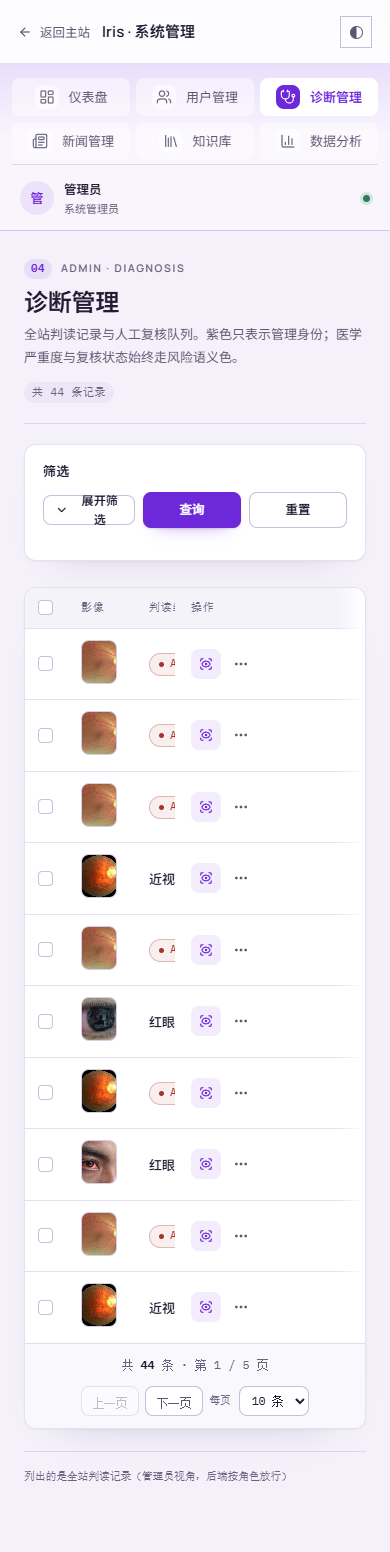
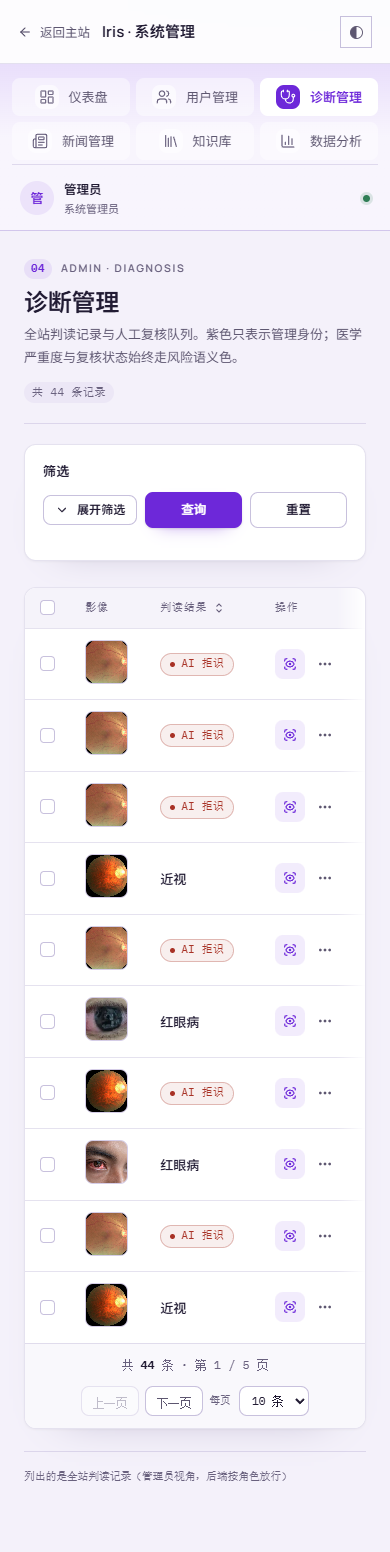
fix(web): 390px sticky 操作列行内宽度压过媒体查询——收窄 !important
视觉评审第二轮裁剪证据：诊断管理在 390px 下操作列仍渲染 190px
（列定义行内 width 压过 .admin-dt__cell--action 的媒体查询覆盖），
sticky 右列从 x=175 盖住判读结果列，「AI 拒识」chip 被切到只剩
半个字母、表头「判读结果」被截成「判读」。

- 操作列 390 档收窄规则加 !important（行内样式优先级的唯一解）
- .admin-btn 补 white-space: nowrap：「展开筛选」曾被挤成两行竖排
- 文件元信息（类型 · 大小）补 overflow hidden + ellipsis：长文件名
  行内截断，完整值已在 title

复验：操作列 106px @x=259，chip 完整；筛选按钮单行；知识库最长
文件名 06-hypertension.md 行内 ellipsis。r3 全量重采（浅/深 ×
四档视口 × 7 页 + 暗色窄屏档）。typecheck/lint/358 tests/build 全绿。

diff --git a/web/src/styles/admin-redesign.css b/web/src/styles/admin-redesign.css
@@ -866,9 +866,10 @@
   font-size: 10.5px;
   letter-spacing: 0.06em;
   color: var(--fg-3);
-  /* 类型 + 大小是一体读数，窄屏宁断行也不要在「·」处折行；
-     完整值交给 title。 */
+  /* 类型 + 大小是一体读数：窄屏截断时给省略号，完整值在 title 里。 */
   white-space: nowrap;
+  overflow: hidden;
+  text-overflow: ellipsis;
 }
 
 /* ── 诊断缩略图 ───────────────────────────────────────────── */
@@ -1551,10 +1552,13 @@ html.dark .admin-newsedit .w-md-editor {
     min-width: 932px;
   }
 
+  /* 列定义给 <th> 写了行内 width（160–190px），行内样式压过本表；
+     390 档必须 !important 才能把固定的 sticky 操作列收窄——
+     否则它会盖住判读结果列，把「AI 拒识」chip 切掉半截。 */
   .admin-dt__cell--action,
   .admin-dt__head--action {
-    width: 96px;
-    min-width: 96px;
+    width: 96px !important;
+    min-width: 96px !important;
   }
 
   .admin-dt__scroll {

diff --git a/web/src/styles/admin.css b/web/src/styles/admin.css
@@ -359,6 +359,8 @@
   font-family: var(--font-sans);
   font-size: 13px;
   font-weight: 500;
+  /* 390 档「展开筛选」曾被挤成两行竖排；按钮文案永远单行。 */
+  white-space: nowrap;
   cursor: pointer;
   transition:
     background var(--fast),

diff --git a/docs/design/admin-redesign-after/r2/visual-review-report.md b/docs/design/admin-redesign-after/r2/visual-review-report.md
@@ -1,0 +1,192 @@
+# Independent Visual Review — Admin Console Redesign (`feat/admin-visual-redesign`)
+
+Reviewed read-only from `D:\Work\code\eye-diagnosis\.worktrees\admin-redesign`, branch
+`feat/admin-visual-redesign` (base `ui`). Review date 2026-11-14.
+
+## Verdict
+
+**REQUEST CHANGES.**
+
+No P0. One P1 remains visible in the delivered evidence: at 390px the diagnosis
+"判读结果" and knowledge "文档" columns are still sliced by the sticky action
+column (light **and** dark), so "AI 拒识" renders as a red dot plus a single "A".
+Two P2 consistency/honesty findings follow. This is a review gate, not the
+user's final visual sign-off — automated screenshots passing does not equal human
+visual approval.
+
+## Scope, evidence and method
+
+- **Evidence base.** The review round opened on `r2/`; while it was running the
+  implementation committed `94a3e071 fix(web): 视觉评审整改——窄屏折叠/暗色对比/弹性列零宽三组修复`
+  and re-captured `r3/`. Findings are therefore verified against **`r3/`**
+  (the post-remediation evidence), with `r2/` used only to locate the original
+  defect. `r3/` contains 7 pages × {light 1440, dark 1440, w390, w768, w1280,
+  w1920} plus `dark-w390/`, `dark-w768/` and six interaction closeups.
+- **Method.** Full-page screenshots inspected visually and measured at pixel
+  level (bounding boxes, column boundaries, hard-cut detection, sampled colour
+  contrast, md5 comparison between `r2/` and `r3/`), cross-checked against the
+  CSS cascade and the TSX render path. Contrast ratios were computed from the
+  token hex values and confirmed against sampled screenshot pixels.
+- **Not re-done.** Functional/behavioural review is `../r1/functional-review-report.md`;
+  it is context only. No test suite, typecheck or build was run by this review;
+  no application server was driven (no admin credentials were available to this
+  reviewer), so all conclusions are screenshot + source based.
+
+## Findings
+
+### P1-1 — 390px ledgers still truncate the result/document column; the sticky action column covers it (light and dark)
+
+**Evidence**
+- `r3/w390/diagnosis.png` (390×1552): the "AI 拒识" pill occupies **x 149–174,
+  y 653–676** and is cut by a perfectly vertical hard edge at **x 175**; pixels
+  x 175–190 are pure white and the action controls start at **x 191**. The
+  header cell "判读结果" is likewise clipped, its ink ending at **x 174**.
+- `r3/dark-w390/diagnosis.png` (390×1552): identical geometry, same cut.
+- `r3/w390/knowledge.png` (390×1568): the document name is cut at **≈x 170**
+  while the "操作" header is already visible at **≈x 205** — the same overlay.
+
+**Observation.** The "弹性列零宽" fix did give the result column a 156px floor
+(and knowledge a 172px floor), and the geometry confirms the chip would fit.
+The visible cut is not the column boundary: it is the **sticky action column**
+painted on top. The ≤640px rule shrinks it to 96px, but each column definition
+also writes an inline `width` onto the `<th>` — 190px for diagnosis
+(`AdminDiagnosisPage.tsx:540`), 176px for knowledge
+(`AdminKnowledgePage.tsx:396`) — applied at `DataTable.tsx:325`
+(`style={{ width: column.width }}`). Inline styles beat the class, so the sticky
+cell stays 190px/176px wide, is pinned to the scrollport's right edge and covers
+everything from x≈175 rightwards with an opaque `--admin-surface` background.
+That is precisely where the chip is sliced.
+
+**Why it matters.** The flagship narrow-screen fix still shows a broken reading:
+the severity-tagged "AI 拒识" chip is unreadable and the column header is
+mutilated at the width the fix was specifically written for. The same defect
+repeats in dark mode, so the "双主题" claim does not hold at 390.
+
+**Status of the fix.** The working tree now contains an **uncommitted** change to
+`web/src/styles/admin-redesign.css` adding `!important` to the ≤640px
+`.admin-dt__cell--action { width/min-width: 96px }` rule, with a comment naming
+exactly this inline-style override. It is not in `94a3e071`, and no `r4`
+re-capture exists, so the delivered evidence still shows the defect.
+
+**Suggested fix.** Keep the working-tree `!important` (or, cleaner, stop writing
+the action column's inline width below 640px — e.g. omit `style.width` for the
+last column when it is the action column, or set the width through a CSS custom
+property). Then re-capture **`w390` and `dark-w390` for diagnosis and knowledge**
+and confirm: full "AI 拒识" pill, full "判读结果" header, no control collision
+inside the 96px cell (two 30px icon buttons + gap + 32px padding is ≈94–100px —
+verify it does not bleed).
+
+### P2-1 — The same destructive verb has two visual weights: row delete is red, batch delete is neutral
+
+**Evidence**
+- `r3/closeups/r3-batchbar-news.png`: the batch bar renders 批量发布 (filled
+  purple), 批量下架 (neutral outline) and **批量删除 (neutral outline)** —
+  visually identical to the non-destructive unpublish action.
+- `r3/closeups/r3-dialog-delete-news.png`: the single-row confirmation renders
+  **确认删除 in the red `--risk-critical` danger style**.
+
+**Observation.** `AdminNewsPage.tsx:434-438` gives the batch delete
+`admin-btn--ghost`; the dialog at `AdminNewsPage.tsx:493` uses
+`admin-btn--danger`, which the stylesheet deliberately defines in
+`--risk-critical` ("危险动作保持医学语义色"). The batch action — the one with
+the larger blast radius — therefore looks the *safer* of the two.
+
+**Why it matters.** Destructive affordances must be recognisable across the same
+page; here the bulk path is easier to mis-click than the single-row path. It also
+breaks component consistency across the seven pages (axis 8).
+
+**Suggested fix.** Use `admin-btn--danger` for 批量删除 (keeping the existing
+confirmation), or drop the red from the dialog and rely on the confirm copy —
+but pick one convention. 批量下架 stays neutral.
+
+### P2-2 — On error the pager still prints "共 0 条 · 第 1 / 1 页", contradicting the error body
+
+**Evidence**
+- `r3/closeups/r3-error-news.png`: the table body says "连不上服务，请检查网络后再试一次。"
+  while the pager immediately below reads **"共 0 条 · 第 1 / 1 页"** with
+  disabled 上一页/下一页.
+
+**Observation.** The page head was correctly moved to a three-state treatment
+("资讯数读取中…" instead of a fake count), but `DataTable.tsx:367-370` always
+renders `共 {page.total} 条`, and the pages pass `total = data?.total ?? 0`.
+A failed or in-flight request therefore publishes a fabricated zero in the
+footer — the exact "还没读到 ≠ 读到是零" rule the redesign states elsewhere.
+
+**Why it matters.** Axis 5 (honest empty/loading/error states): a user reading
+the pager concludes the dataset is empty rather than unread, which changes what
+they do next (e.g. concluding records were lost).
+
+**Suggested fix.** When `error` is set or rows are still loading, render "—"
+for the count (or hide the pager, as `hidePager` already supports), and restore
+the real total only when a successful response has been read.
+
+## Verified good (evidence-based)
+
+- **No fabricated KPIs.** `r3/dashboard.png`, `r3/data-analysis.png`: zeros are
+  accompanied by "上期与本期均为 0 " / "占窗口内判读 0.0%", absent data renders
+  "—", and "已清空" appears only on cards that read a real zero. Empty chart
+  panels are explanatory ("窗口内还没有可统计的判读" + next-step CTA), never
+  fake series.
+- **Severity stays in the risk palette.** Sampled pills are exactly
+  `#a83226` / `#96690f` / `#2f7d55` (6.67 / 4.86 / 5.02:1 on white). Purple is
+  used only for management identity/current state; the primary CTA is purple, not
+  signal orange. The feature card is the single intentional large purple fill.
+- **Typography.** KPI digits and all counts/timestamps are mono with uniform
+  advance (tabular); page heads use Manrope 600, which `DESIGN.md` explicitly
+  sanctions for admin (not a serif-weight violation). No mixed-font figures found.
+- **Dark mode.** Canvas measured `(26,23,39)` as documented; the hero card is now
+  a dark purple panel (no pink wash-out); chart axis text measures **6.97:1**
+  (`#a69fbf` on `#1a1727`); admin body text 14.86:1, faint text 5.39:1. The dark
+  checkbox mark override exists in code (`stroke='%23171322'`, code-derived
+  **7.92:1** on `#b39dfb`). No light-theme leftovers spotted in `r3/dark/*`,
+  `r3/dark-w390/*`, `r3/dark-w768/*`.
+- **Responsive structure.** w768 ledgers scroll horizontally with the action
+  column pinned (header runs spread across 992px, e.g. 时间 at x 554–574);
+  w1280 dashboard bento stacks cleanly (the former 6+8=14-col break is gone);
+  w1920 keeps the same 16px gaps without over-stretching; w390 page heads and
+  cards stack with no horizontal page overflow (right-most ink ≤ x 369/390,
+  the remainder being intentional full-width hairlines).
+- **States and interactions.** Error copy is plain and actionable; skeleton rows
+  are non-interactive; the delete dialog is Base UI-rendered with named target
+  and "删除后不可恢复" copy; the batch bar shows a live "已选 N 项".
+- **Editor typography/contrast.** Title/body/note placeholders measure **5.81:1**
+  (`#69617e` on white) — the earlier low-contrast placeholder concern does not
+  reproduce in `r3`.
+- **Task differentiation.** Dashboard is Bento KPIs/trends/tasks/distribution;
+  the four ledgers are filter + dense table + pager; the news editor is a writing
+  workspace with a right settings rail. No page is a copy of another.
+
+## Non-blocking notes
+
+- `AdminDiagnosisPage.tsx:481` still says "表格 min-width 780" while the CSS now
+  sets 992px — stale comment, no visual effect.
+- The r3 `w390` filter toggle renders "展开筛选" on two lines
+  (`r3/w390/diagnosis.png`, x 42–133, y 492–527), yet committed CSS sets
+  `white-space: nowrap` on `.admin-btn` (`admin.css:363`). I could not reconcile
+  the screenshot with HEAD; it is most likely a capture/build-time mismatch, so
+  this is reported as an **evidence gap, not a defect**. A fresh 390 capture will
+  settle it.
+
+## Limits
+
+- No admin credentials were available to this reviewer, so the live DOM was not
+  driven; the P1 root cause is established from pixel geometry + the cascade, not
+  from a computed-style readout.
+- Checked-checkbox and disabled-primary-button states do not appear in the
+  captured screenshots; those r3 claims are **code-verified only**, not
+  pixel-verified.
+- The `r3` evidence was captured 03:51–03:53, before the 03:56 commit; the
+  uncommitted CSS fix means HEAD and the working tree differ. Re-capture after
+  committing is required before this can be called verified.
+- **Automated screenshots passing does not equal human visual approval.** This
+  verdict is a review gate; final sign-off remains with the user.
+
+## Exit criteria for READY FOR HUMAN REVIEW
+
+1. Commit the sticky-action-column width fix; re-capture `w390` + `dark-w390`
+   for **diagnosis** and **knowledge** and show the full "AI 拒识" chip and
+   "判读结果" header (P1-1).
+2. Align 批量删除 with the dialog's danger treatment (or state the convention)
+   (P2-1).
+3. Render "—"/hide the pager during load/error (P2-2).
+4. Re-run any affected capture so `r4` and HEAD agree (evidence gap above).
